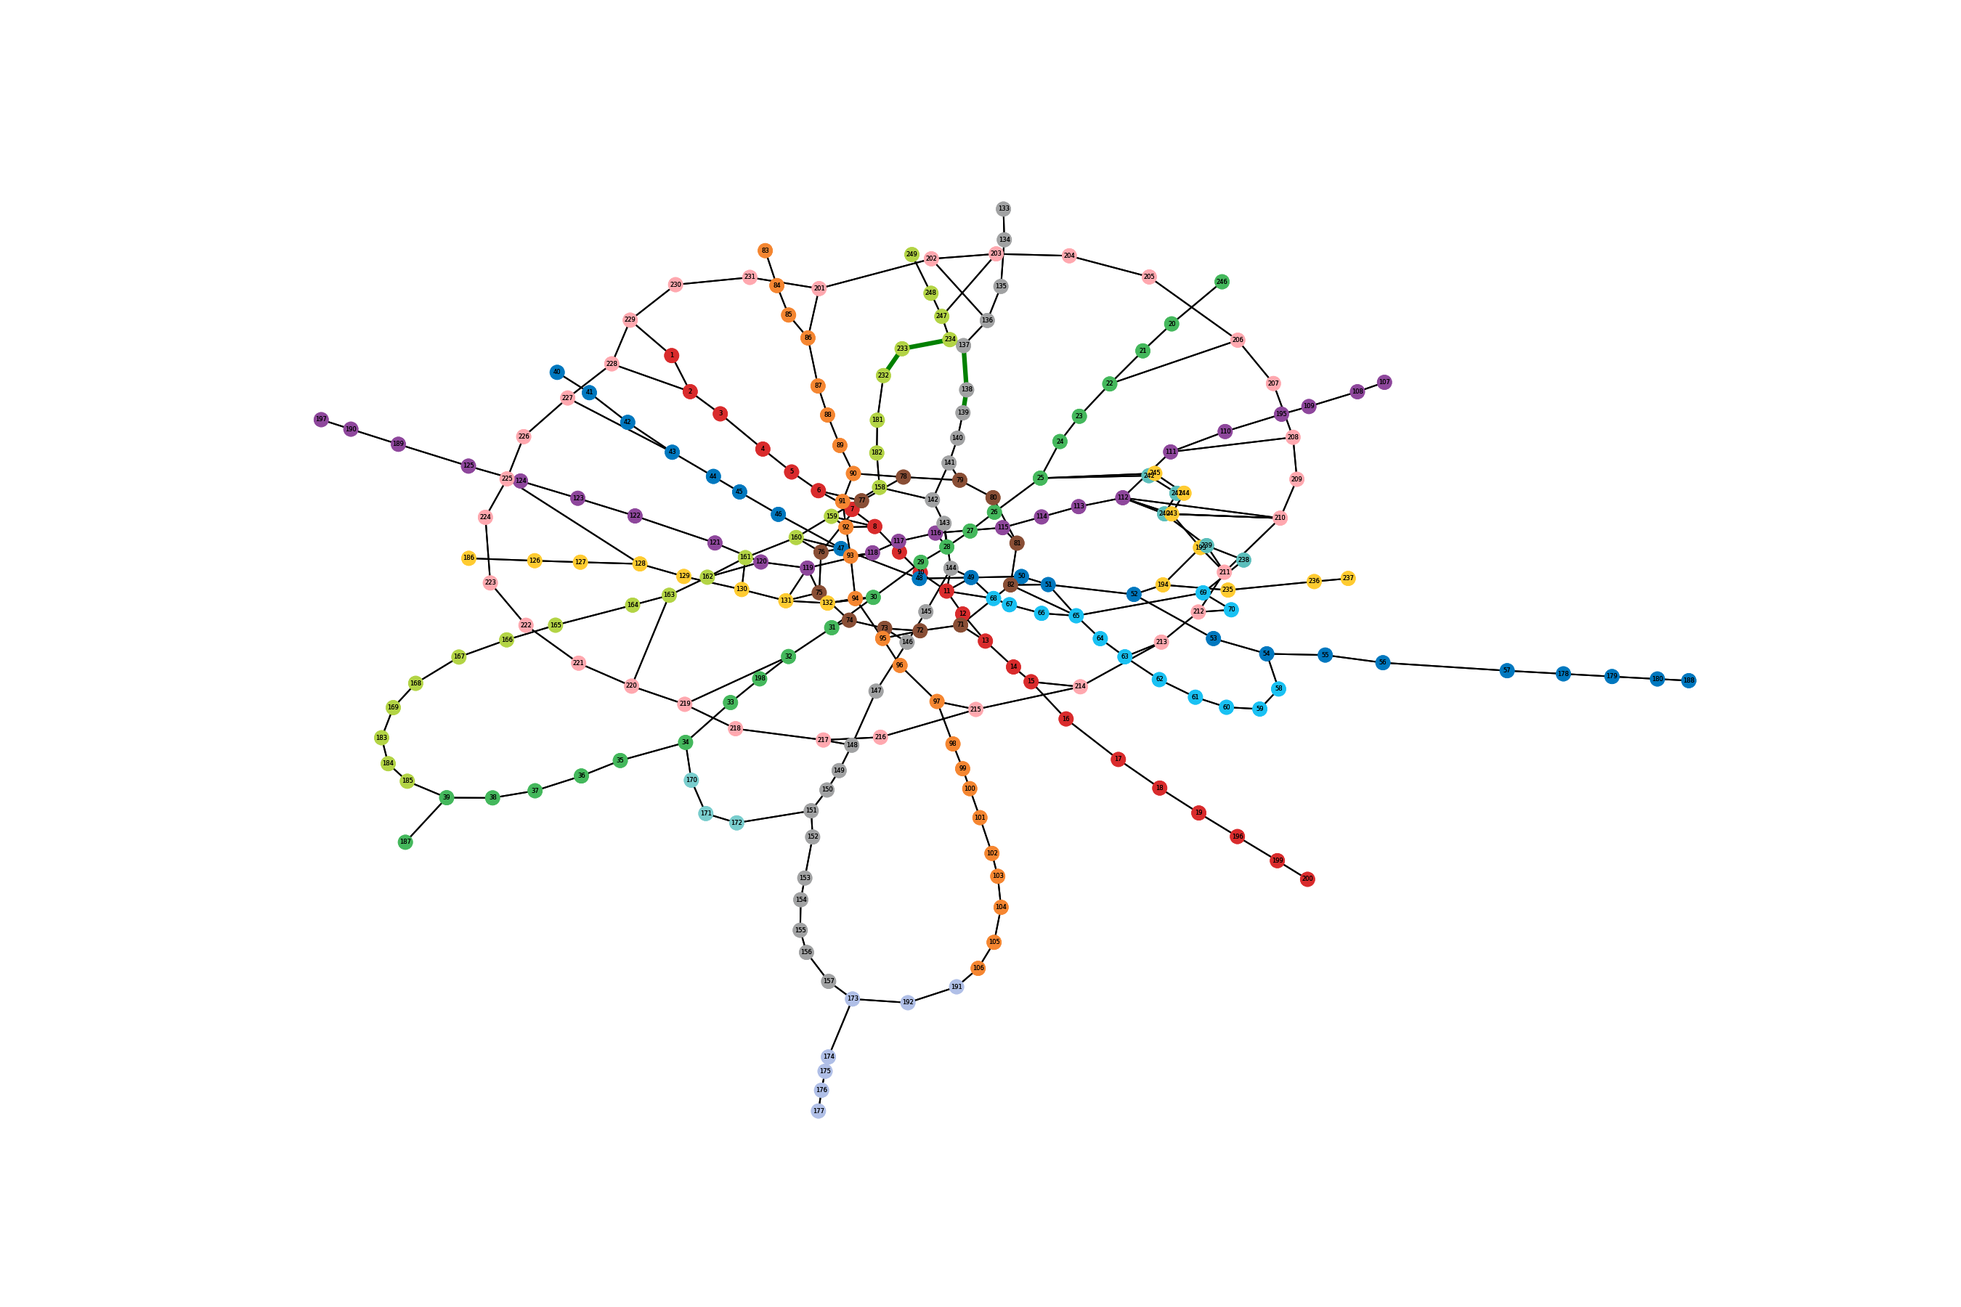
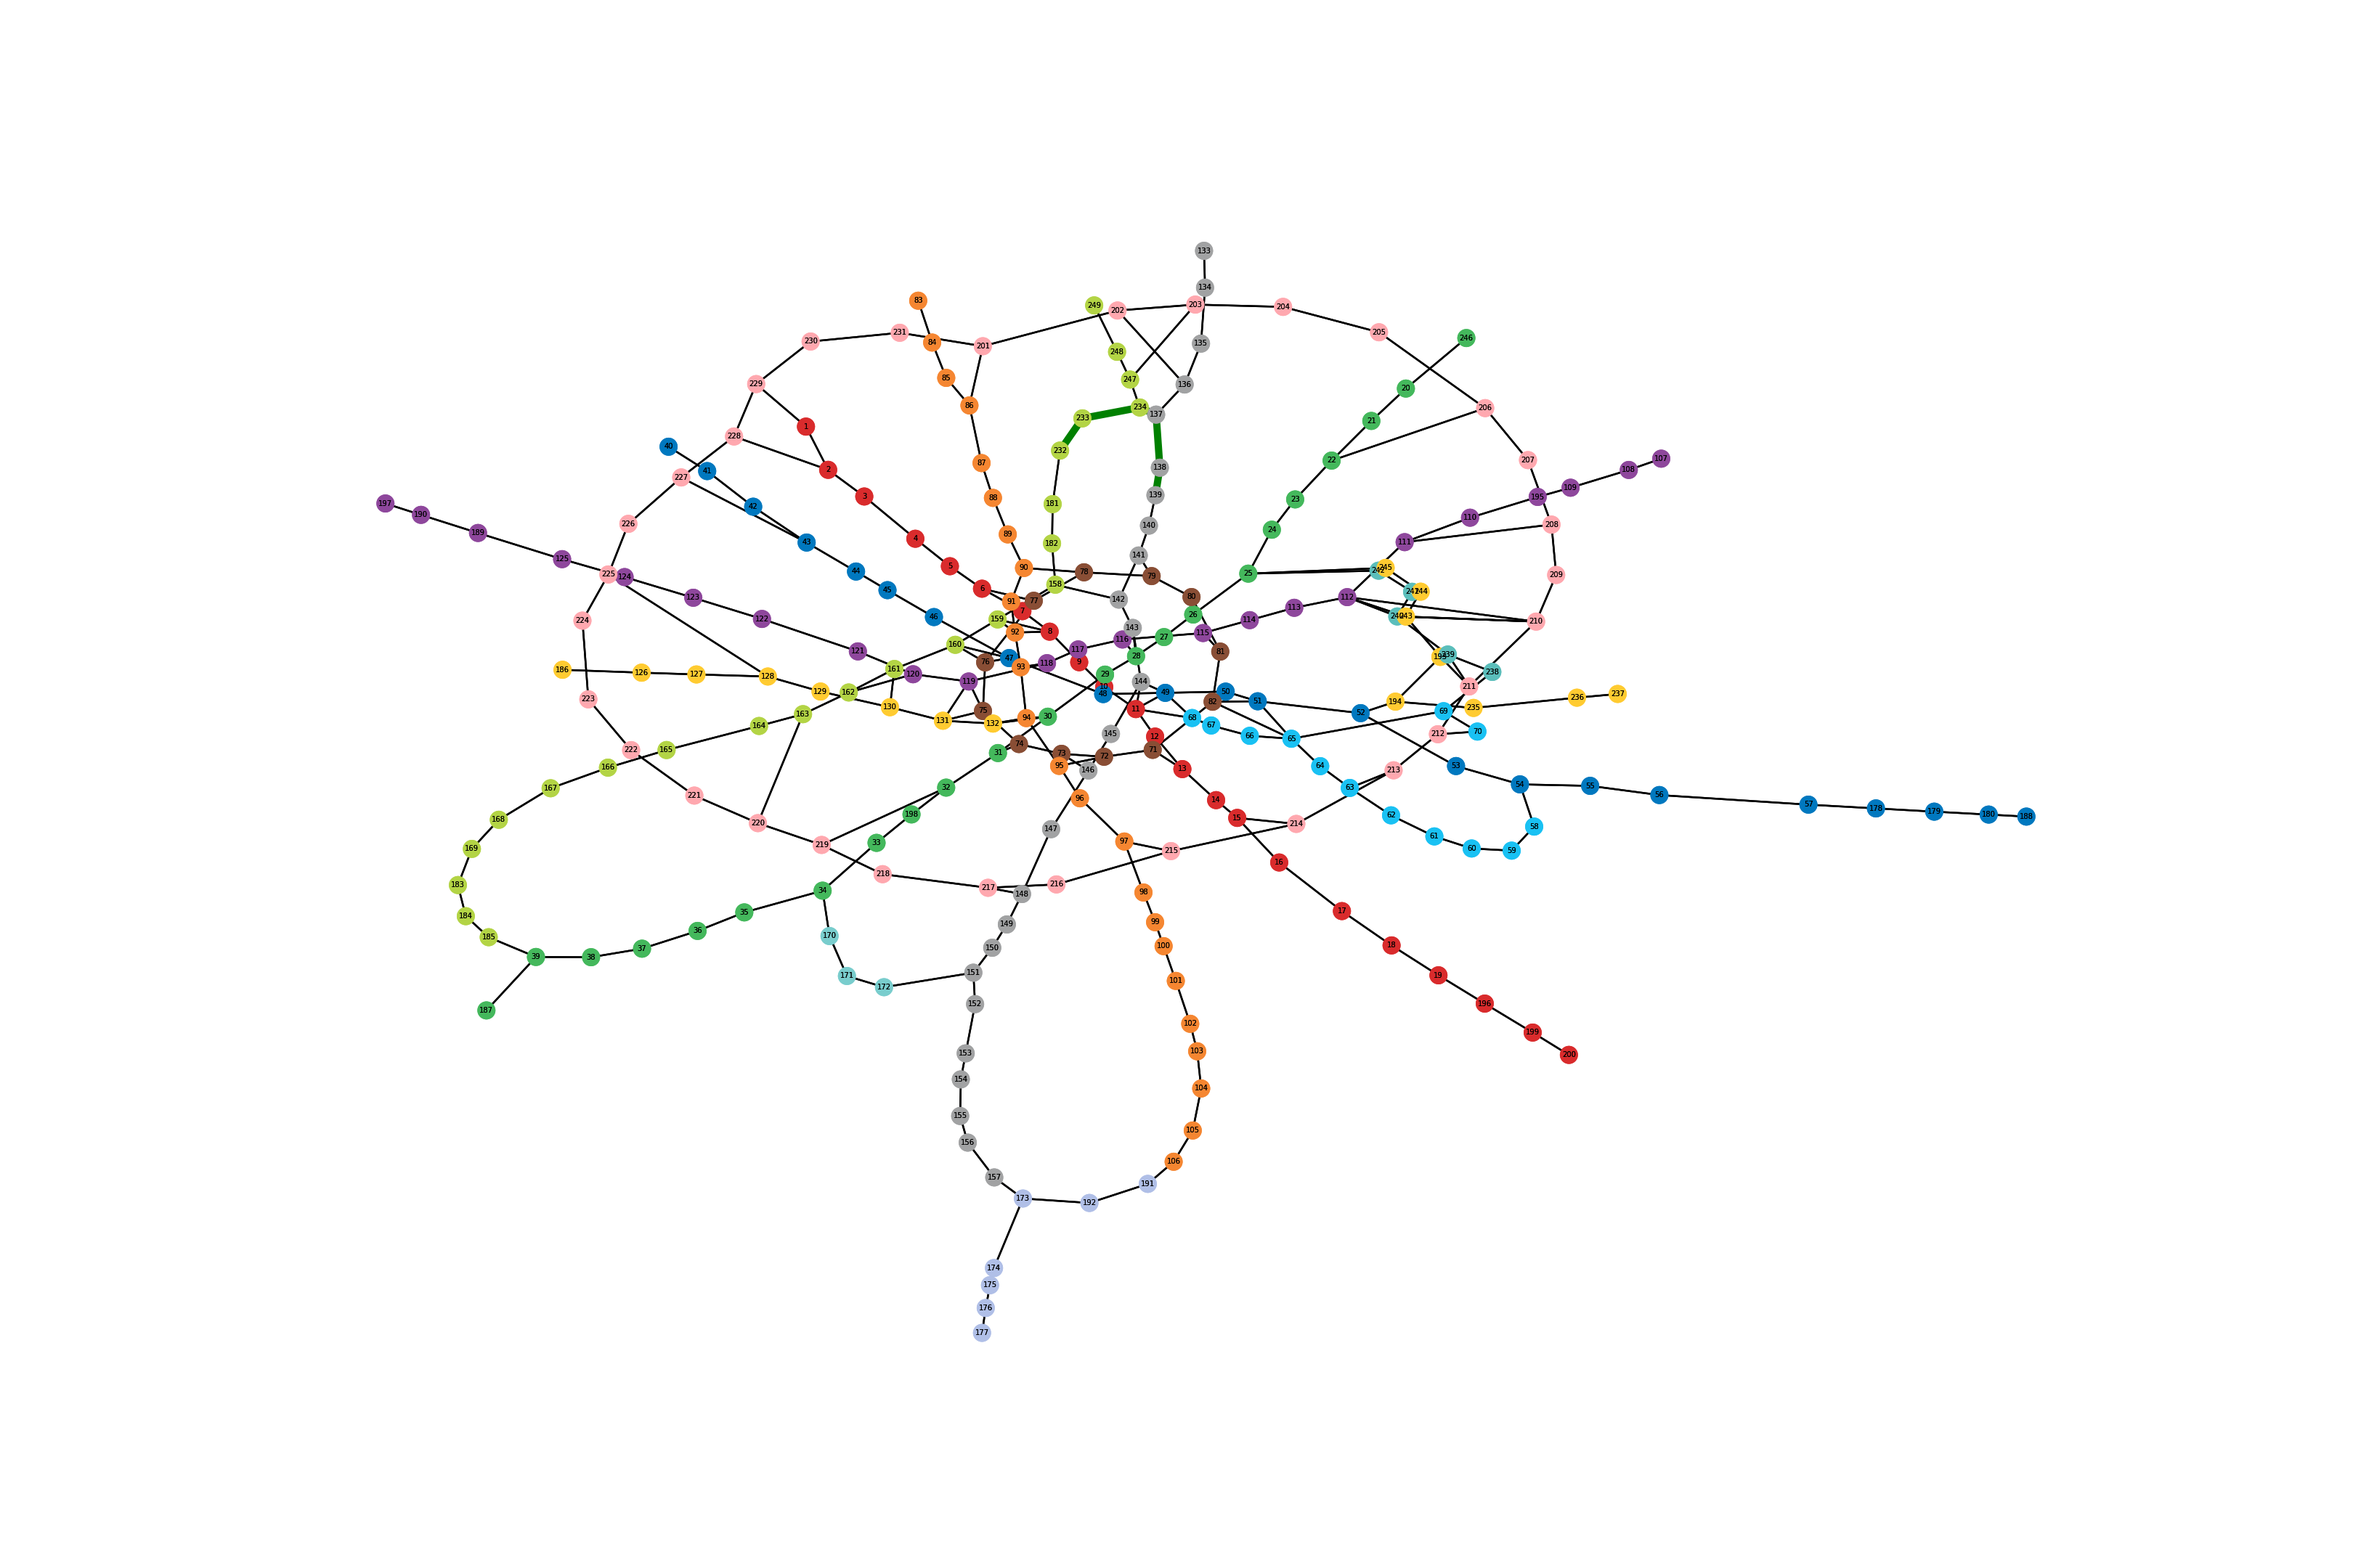
Minor fixes

diff --git a/src/metro_router.py b/src/metro_router.py
@@ -147,7 +147,7 @@ class Router(metaclass=singleton.Singleton):
                 highlighted_stations.append((edge['from']._id, edge['to']._id))
             nx.draw_networkx_edges(self._graph, pos,
                                    edgelist=highlighted_stations,
-                                   width=3, edge_color='g')
+                                   width=4, edge_color='g')
 
         # labels
         nx.draw_networkx_labels(self._graph, pos,
@@ -157,14 +157,15 @@ class Router(metaclass=singleton.Singleton):
         fig.set_size_inches(18, 12)
         plt.axis('off')
 
-        filename = '../img/mosmetro.png'
+        filename = '../img/metro.png'
         if route is not None:
             start_station_id = route.path[0]['from']._id
             start_station_name = metro_data.STATIONS[start_station_id]['name']
             finish_station_id = route.path[-1]['to']._id
             finish_station_name = metro_data.STATIONS[finish_station_id]['name']
-            filename = '../img/from_' + start_station_name + '_to_' + finish_station_name + '.png'
-        plt.savefig(filename, dpi=150)
+            filename = '../img/from_' + start_station_name + '_to_'\
+                       + finish_station_name + '.png'
+        plt.savefig(filename, dpi=180)
 
 
     def _make_route_from_path(self, path):
